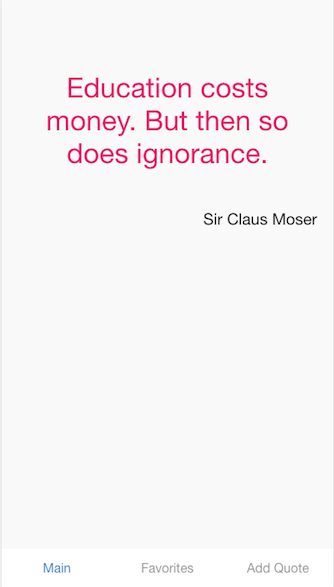
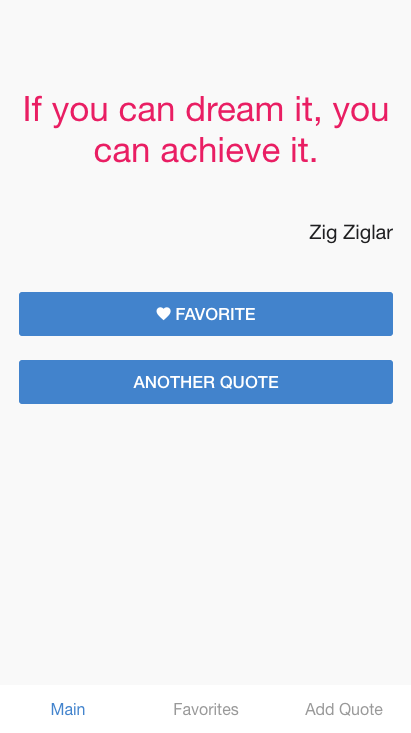
update main image

diff --git a/task-01.md b/task-01.md
@@ -2,15 +2,19 @@ Inspire Application
 ==================
 You have three pages:
  ## Main Page
-It display a random quote from the quote database, with the two buttons:
+It display a random quote from the quote database, with two buttons:
  - **Favorite**: add this quote to favorites
  - **Another Quote**: show another random quote
 
 ![Main Page](./images/inspire-main.png)
 
+
 ## Favorite Quotes
 Show the list of favorites quotes with the option to remove each quote from favorite.
+
 ![Favorites](./images/inspire-favorites.png)
+
+
 
 
 ## Submit a Quote
@@ -33,7 +37,7 @@ Save a new quote to the list of quotes, the quote object have two properties:
 ## Code Hint
 
 ### Get Random item
-In JavaScript To get a random item from a database you can use the following method:
+You can use the followin method to get a random item from an array
 
 ```js
 function random(array) {
@@ -69,7 +73,7 @@ function random(array) {
  ```
 
  ## Bonus
-Use a web api to fetch the quotes instead of using the local database
+Use the web api to fetch quotes instead of using the local database
 https://talaikis.com/api/quotes/random/
 
 
